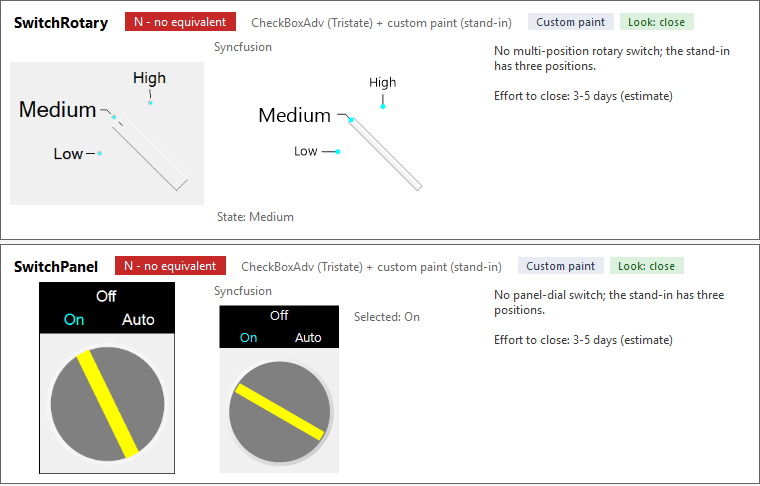
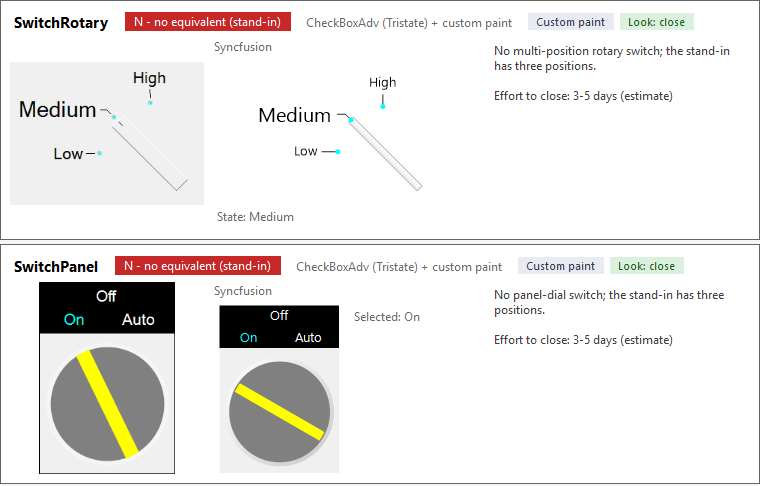
Show N stand-ins separately from prototypes in the gap register
N controls built on a Syncfusion control (custom renderer or custom paint) now show the badge 'N - no equivalent (stand-in)'; new HmiControls keep '(prototype built)'. The summary line reads '19 (10 prototypes, 9 Syncfusion stand-ins)', the customer summary explains both terms, and the Built column shows prototype / stand-in.

The rating stays N: the stand-ins are still FR candidates and the look and behaviour are custom code. The card header drops the repeated '(stand-in)' from the control name so the Look chip fits.

Changed region(s): [[0.2724, 0.5247, 0.6658, 0.5864], [0.3026, 0.0, 0.6658, 0.0617]]

diff --git a/src/PocApp/Infrastructure/RegisterExporter.cs b/src/PocApp/Infrastructure/RegisterExporter.cs
@@ -25,7 +25,7 @@ public static class RegisterExporter
         sb.AppendLine("| Control | FR title | Priority | Effort | Built | Approach | Look | Notes |");
         sb.AppendLine("|---|---|---|---|---|---|---|---|");
         foreach (var e in entries.Where(x => x.FrCandidate).OrderBy(x => x.Priority).ThenBy(x => x.Name))
-            sb.AppendLine($"| {e.Name} | {e.FrTitle} | {e.Priority} | {e.EffortText} | {(e.BuiltInPoc ? "yes" : "no")} | {Approach(e)} | {Look(e)} | {e.InternalNotes} |");
+            sb.AppendLine($"| {e.Name} | {e.FrTitle} | {e.Priority} | {e.EffortText} | {(e.BuiltText is "" ? "no" : e.BuiltText)} | {Approach(e)} | {Look(e)} | {e.InternalNotes} |");
 
         sb.AppendLine();
         sb.AppendLine("## Extend (E) controls");
@@ -52,6 +52,7 @@ public static class RegisterExporter
         sb.AppendLine("# iocomp to Syncfusion WinForms: Migration Summary");
         sb.AppendLine();
         sb.AppendLine("A = available as-is, E = available with customization, N = no direct equivalent today.");
+        sb.AppendLine("For N controls, a Syncfusion stand-in is an existing Syncfusion control with custom drawing that keeps its state and events; a prototype is a new control written for this demo.");
         sb.AppendLine("Approach = how the demo achieves it. Effort ranges are estimates.");
         sb.AppendLine(LookNote);
         sb.AppendLine();
@@ -68,7 +69,7 @@ public static class RegisterExporter
     public static string SummaryLine(IReadOnlyList<ControlEntry> entries) =>
         $"Total controls: {entries.Count} | As-is: {entries.Count(x => x.Rating == Rating.A)} | " +
         $"Extend: {entries.Count(x => x.Rating == Rating.E)} | No equivalent: {entries.Count(x => x.Rating == Rating.N)} " +
-        $"({entries.Count(x => x.BuiltInPoc)} built as prototypes) | Look: " +
+        $"({entries.Count(x => x.BuiltInPoc)} prototypes, {entries.Count(x => x.IsSyncfusionStandIn)} Syncfusion stand-ins) | Look: " +
         string.Join(", ", new[] { Fidelity.Close, Fidelity.Acceptable, Fidelity.Different, Fidelity.None }
             .Select(f => $"{ControlCard.FidelityText(f)} {entries.Count(x => x.Fidelity == f)}"));
 

diff --git a/src/PocApp/Infrastructure/ControlCard.cs b/src/PocApp/Infrastructure/ControlCard.cs
@@ -57,7 +57,9 @@ public sealed class ControlCard : Panel
         {
             Rating.A => "A - as-is",
             Rating.E => "E - extend",
-            _ => Entry.BuiltInPoc ? "N - no equivalent (prototype built)" : "N - no equivalent",
+            _ when Entry.BuiltInPoc => "N - no equivalent (prototype built)",
+            _ when Entry.IsSyncfusionStandIn => "N - no equivalent (stand-in)",
+            _ => "N - no equivalent",
         };
 
         var panel = new FlowLayoutPanel { Dock = DockStyle.Fill, WrapContents = false };
@@ -79,7 +81,8 @@ public sealed class ControlCard : Panel
         });
         panel.Controls.Add(new Label
         {
-            Text = Entry.SyncfusionControl,
+            // The badge already says "stand-in"; repeating it here pushed the Look chip off the card.
+            Text = Entry.IsSyncfusionStandIn ? Entry.SyncfusionControl.Replace(" (stand-in)", "") : Entry.SyncfusionControl,
             AutoSize = true,
             ForeColor = Color.DimGray,
             Margin = new Padding(0, 5, 12, 0),

diff --git a/src/PocApp/Infrastructure/ControlEntry.cs b/src/PocApp/Infrastructure/ControlEntry.cs
@@ -38,6 +38,12 @@ public sealed record ControlEntry(
 
     public Approach Approach { get; init; } = Approach.Placeholder;
 
+    /// <summary>N control shown with a custom-drawn stand-in on a Syncfusion control (renderer or OnPaint), not a new control.</summary>
+    public bool IsSyncfusionStandIn => Rating == Rating.N && Approach is Approach.CustomRenderer or Approach.CustomPaint;
+
+    /// <summary>"prototype", "stand-in" or empty: what the demo built for an N control.</summary>
+    public string BuiltText => BuiltInPoc ? "prototype" : IsSyncfusionStandIn ? "stand-in" : "";
+
     public string EffortText => EffortSource == EffortSource.None
         ? "-"
         : $"{EffortMinDays:0.#}-{EffortMaxDays:0.#} days ({EffortSource.ToString().ToLowerInvariant()})";

diff --git a/src/PocApp/Pages/GapRegisterPage.cs b/src/PocApp/Pages/GapRegisterPage.cs
@@ -86,7 +86,7 @@ public sealed class GapRegisterPage : UserControl
                 Effort = e.EffortText,
                 e.Priority,
                 FR = e.FrCandidate ? e.FrTitle : "",
-                Built = e.BuiltInPoc ? "yes" : "",
+                Built = e.BuiltText,
             })
             .ToList();
 
